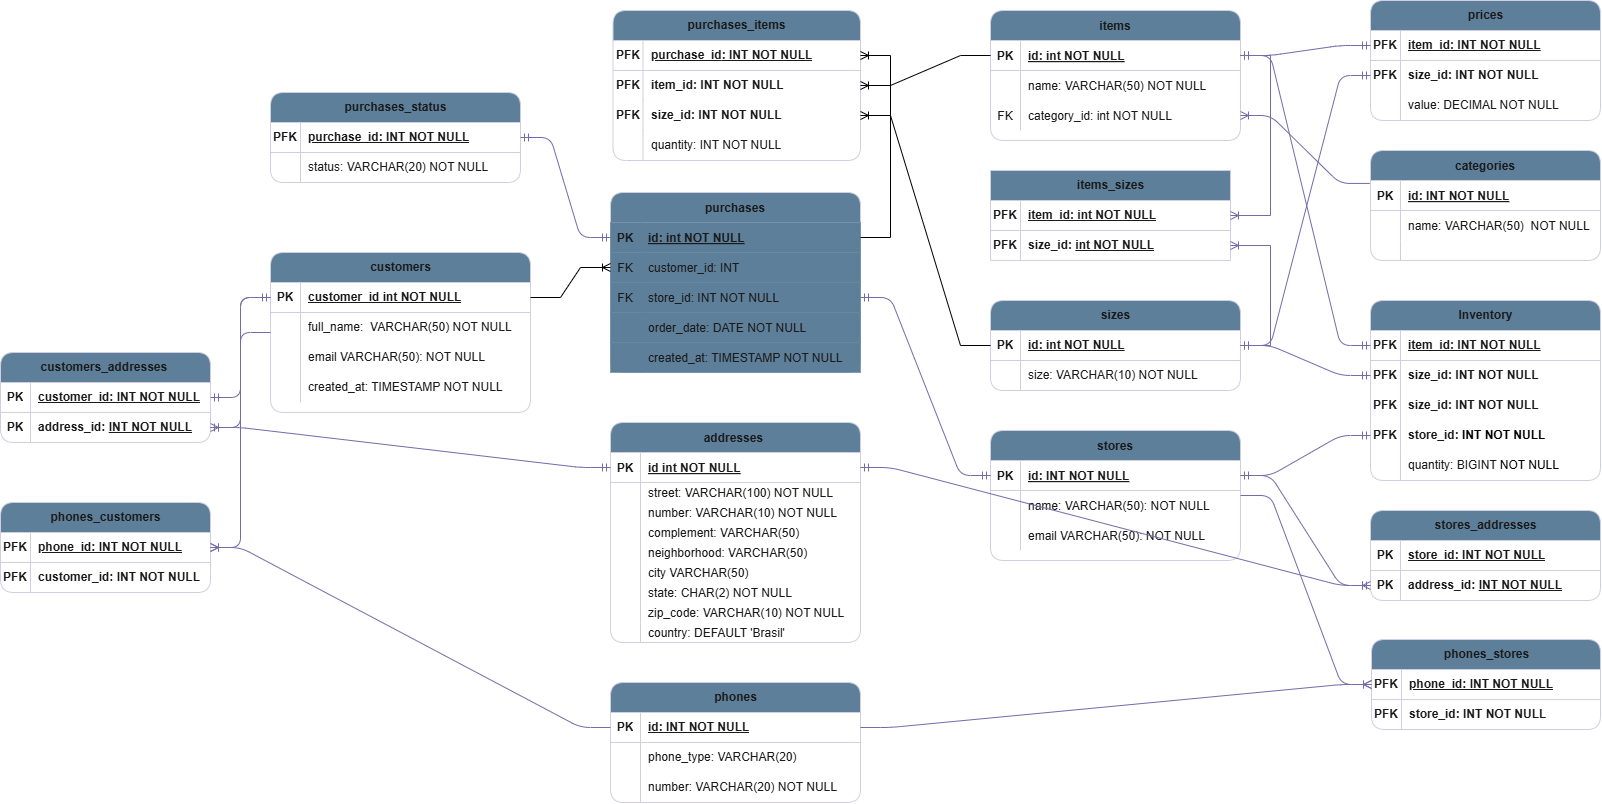
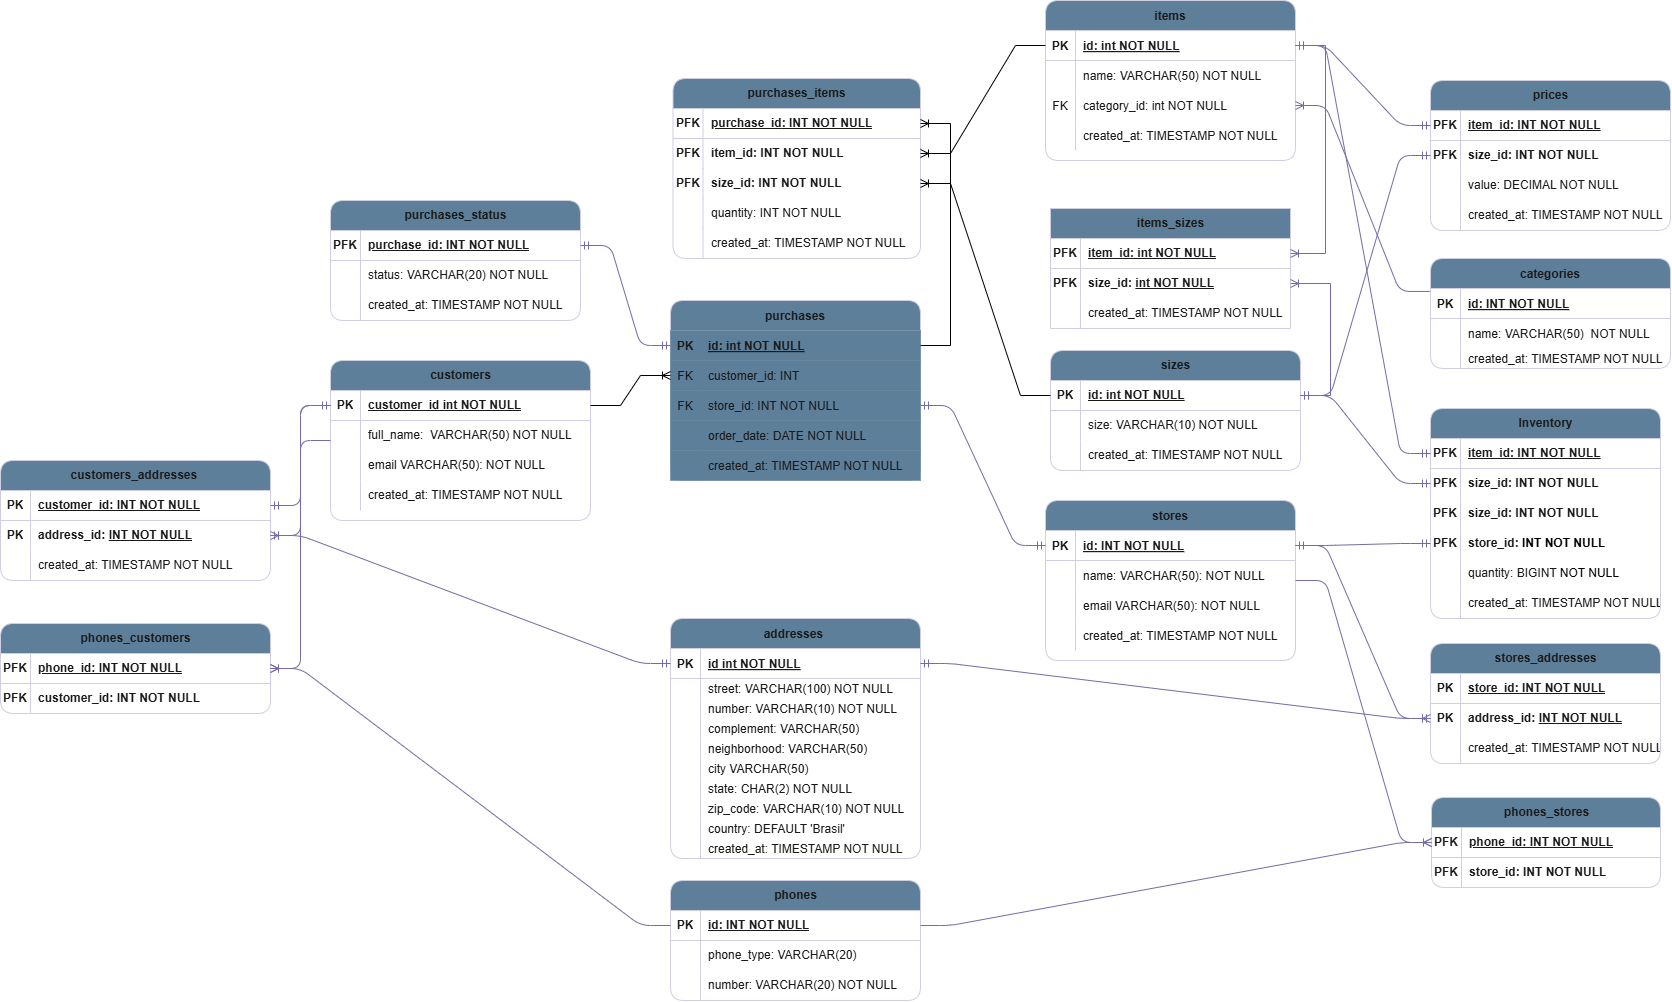
adding created_at column to 'customers 'items 'sizes 'stores 'categories 'purchases 'purchases_status 'purchases_items 'prices 'items_sizes 'inventory 'stores_addresses 'addresses customer_addresses

diff --git a/dags/dag_create_ecommerce_tables_oltp.py b/dags/dag_create_ecommerce_tables_oltp.py
@@ -47,6 +47,9 @@ class Category(Base):
     __tablename__ = "categories"
     id = Column(Integer, primary_key=True, autoincrement=True)
     name = Column(String(50), nullable=False)
+    created_at = Column(
+        TIMESTAMP, nullable=False, server_default=func.current_timestamp()
+    )    
     CheckConstraint(category_constraint_sql, name="check_category_values"),
 
 
@@ -55,26 +58,35 @@ class Items(Base):
     id = Column(Integer, primary_key=True, autoincrement=True)
     name = Column(String(50), nullable=False)
     category_id = Column(Integer, ForeignKey("categories.id"), nullable=False)
-
+    created_at = Column(
+        TIMESTAMP, nullable=False, server_default=func.current_timestamp()
+    )
 
 class Size(Base):
     __tablename__ = "sizes"
     id = Column(Integer, primary_key=True, autoincrement=True)
     size = Column(String(10), nullable=False)
     CheckConstraint(constraint_sizes_sql, name="check_size_values")
-
+    created_at = Column(
+        TIMESTAMP, nullable=False, server_default=func.current_timestamp()
+    )
 
 class Items_sizes(Base):
     __tablename__ = "items_sizes"
     item_id = Column(Integer, ForeignKey("items.id"), primary_key=True)
     size_id = Column(Integer, ForeignKey("sizes.id"), primary_key=True)
-
+    created_at = Column(
+        TIMESTAMP, nullable=False, server_default=func.current_timestamp()
+    )
 
 class Prices(Base):
     __tablename__ = "prices"
     item_id = Column(Integer, ForeignKey("items.id"), primary_key=True)
     size_id = Column(Integer, ForeignKey("sizes.id"), primary_key=True)
     value = Column(DECIMAL(10, 2), nullable=False)
+    created_at = Column(
+        TIMESTAMP, nullable=False, server_default=func.current_timestamp()
+    )
     __table_args__ = (CheckConstraint("value > 0", name="check_positive_price"),)
 
 
@@ -83,6 +95,9 @@ class Stores(Base):
     id = Column(Integer, primary_key=True, autoincrement=True)
     name = Column(String(50), nullable=False)
     email = Column(String(50), nullable=False)
+    created_at = Column(
+        TIMESTAMP, nullable=False, server_default=func.current_timestamp()
+    )
 
     addresses = relationship(
         "StoresAddresses",
@@ -109,6 +124,9 @@ class Addresses(Base):
     state = Column(CHAR(2), nullable=False)
     zip_code = Column(String(10), nullable=False)
     country = Column(String(50), default="Brasil")
+    created_at = Column(
+        TIMESTAMP, nullable=False, server_default=func.current_timestamp()
+    )
     __table_args__ = (
         CheckConstraint(
             "state IN ('AC', 'AL', 'AP', 'AM', 'BA', 'CE', 'DF', 'ES', 'GO', 'MA', 'MT', 'MS', 'MG', 'PA', 'PB', 'PR', 'PE', 'PI', 'RJ', 'RN', 'RS', 'RO', 'RR', 'SC', 'SP', 'SE', 'TO')",
@@ -127,7 +145,9 @@ class StoresAddresses(Base):
     )
     address_id = Column(Integer, ForeignKey("addresses.id"), primary_key=True)
     store = relationship("Stores", back_populates="addresses")
-
+    created_at = Column(
+        TIMESTAMP, nullable=False, server_default=func.current_timestamp()
+    )
 
 class Customers(Base):
     __tablename__ = "customers"
@@ -160,7 +180,9 @@ class CustomersAddresses(Base):
     )
     address_id = Column(Integer, ForeignKey("addresses.id"), primary_key=True)
     customer = relationship("Customers", back_populates="addresses")
-
+    created_at = Column(
+        TIMESTAMP, nullable=False, server_default=func.current_timestamp()
+    )
 
 class Phones(Base):
     __tablename__ = "phones"
@@ -234,7 +256,9 @@ class PurchasesItems(Base):
     item_id = Column(Integer, ForeignKey("items.id"), primary_key=True, nullable=False)
     size_id = Column(Integer, ForeignKey("sizes.id"), primary_key=True, nullable=False)
     quantity = Column(Integer, nullable=False)
-
+    created_at = Column(
+        TIMESTAMP, nullable=False, server_default=func.current_timestamp()
+    )
     __table_args__ = (
         CheckConstraint("quantity > 0", name="check_quantity_positive"),
         ForeignKeyConstraint(
@@ -254,6 +278,9 @@ class PurchaseStatus(Base):
         nullable=False,
     )
     status = Column(String(20), nullable=False)
+    created_at = Column(
+        TIMESTAMP, nullable=False, server_default=func.current_timestamp()
+    )
     purchase = relationship("Purchases", back_populates="status")
     __table_args__ = (
         CheckConstraint(
@@ -271,7 +298,9 @@ class Inventory(Base):
         Integer, ForeignKey("stores.id"), primary_key=True, nullable=False
     )
     quantity = Column(BIGINT, nullable=False)
-
+    created_at = Column(
+        TIMESTAMP, nullable=False, server_default=func.current_timestamp()
+    )
     __table_args__ = (
         CheckConstraint("quantity >= 0", name="check_not_negative_quantity"),
     )
